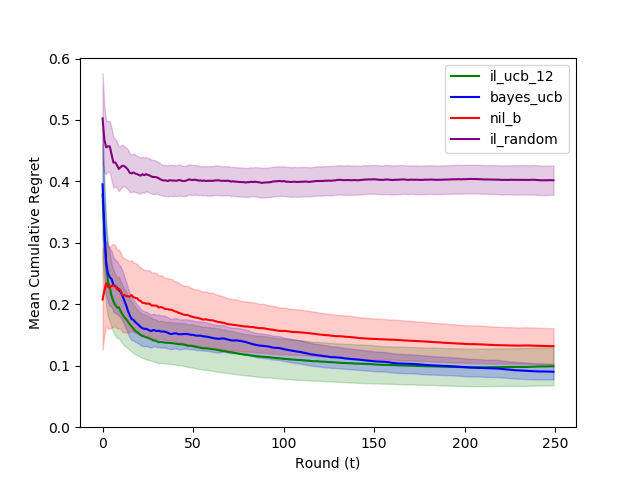
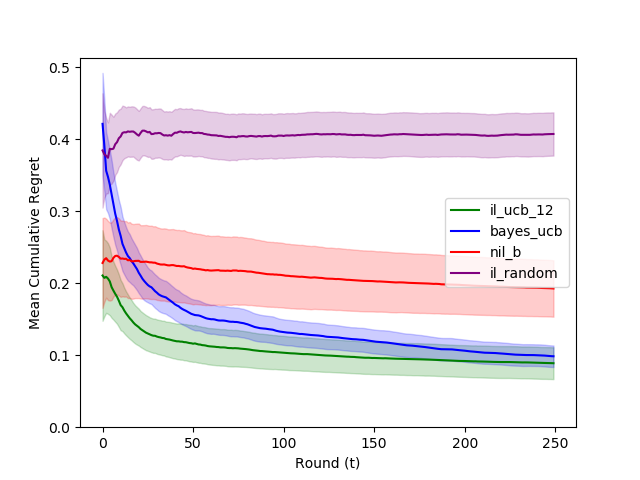
agent updates

diff --git a/agencies/agent.py b/agencies/agent.py
@@ -105,15 +105,47 @@ class Agent():
     def generate_reports_average_attack(self, prev_agents, prev_agent_reports):
         reports = np.zeros(len(self.arm_dists))
         count = 0
-        for agent_index, _ in enumerate(prev_agents):
-            reports = np.add(reports, prev_agent_reports[agent_index])
-            count += 1
 
-        reports /= count
-        reports[self.best_arm] = 0
-        for target_arm_index in self.target_arms:
-            reports[target_arm_index] = 1
-        return reports
+        if len(prev_agents) == 0:
+            return self.generate_reports_sneak_attack()
+        else:
+            for agent_index, _ in enumerate(prev_agents):
+                reports = np.add(reports, prev_agent_reports[agent_index])
+                count += 1
+
+            reports /= count
+            reports[self.best_arm] = 0
+            for target_arm_index in self.target_arms:
+                reports[target_arm_index] = 1
+            return reports.tolist()
+
+    def generate_reports_max_damage(self):
+        reports = []
+        for dist in self.arm_dists:
+            reports.append(np.mean(BernoulliDistribution(1-dist.theta).sample_array(self.num_reports)))
+        
+        return reports #returns an array of bernoulli parameters
+
+    def generate_reports_random_attack(self):
+        reports = []
+        for index, __ in enumerate(self.arm_dists):
+            if index in self.target_arms:
+                reports.append(1)
+            else:
+                rating = np.random.rand()
+                reports.append(rating)
+
+        return reports #returns an array of bernoulli parameters
+
+    def generate_reports_deterministic_attack(self):
+        reports = []
+        for index, __ in enumerate(self.arm_dists):
+            if index == self.target_arms:
+                reports.append(1)
+            else:
+                reports.append(0)
+
+        return reports #returns an array of bernoulli parameters
 
     def generate_reports_v2(self, attack, prev_agents= [], prev_agent_reports= []):
         if self.trustworthy == True:
@@ -129,8 +161,11 @@ class Agent():
                 return self.generate_reports_average_attack(prev_agents, prev_agent_reports)
             elif attack == "sneak":
                 return self.generate_reports_sneak_attack()
+            elif attack == "damage":
+                return self.generate_reports_max_damage()
+            elif attack == "deterministic":
+                return self.generate_reports_max_damage()
+            elif attack == "random":
+                return self.generate_reports_random_attack()
             else:
                 exit()
-                
-        
-

diff --git a/run_simulation.py b/run_simulation.py
@@ -99,7 +99,7 @@ for exp in pbar(range(num_exp)):
 
     # print(nature.hidden_params)
     for t in range(T):
-        reports = nature.get_agent_reports()
+        reports = nature.get_agent_reports("copy")
         # print(reports)
         oracle_arm = oracle.select_arm(t+1)
         
